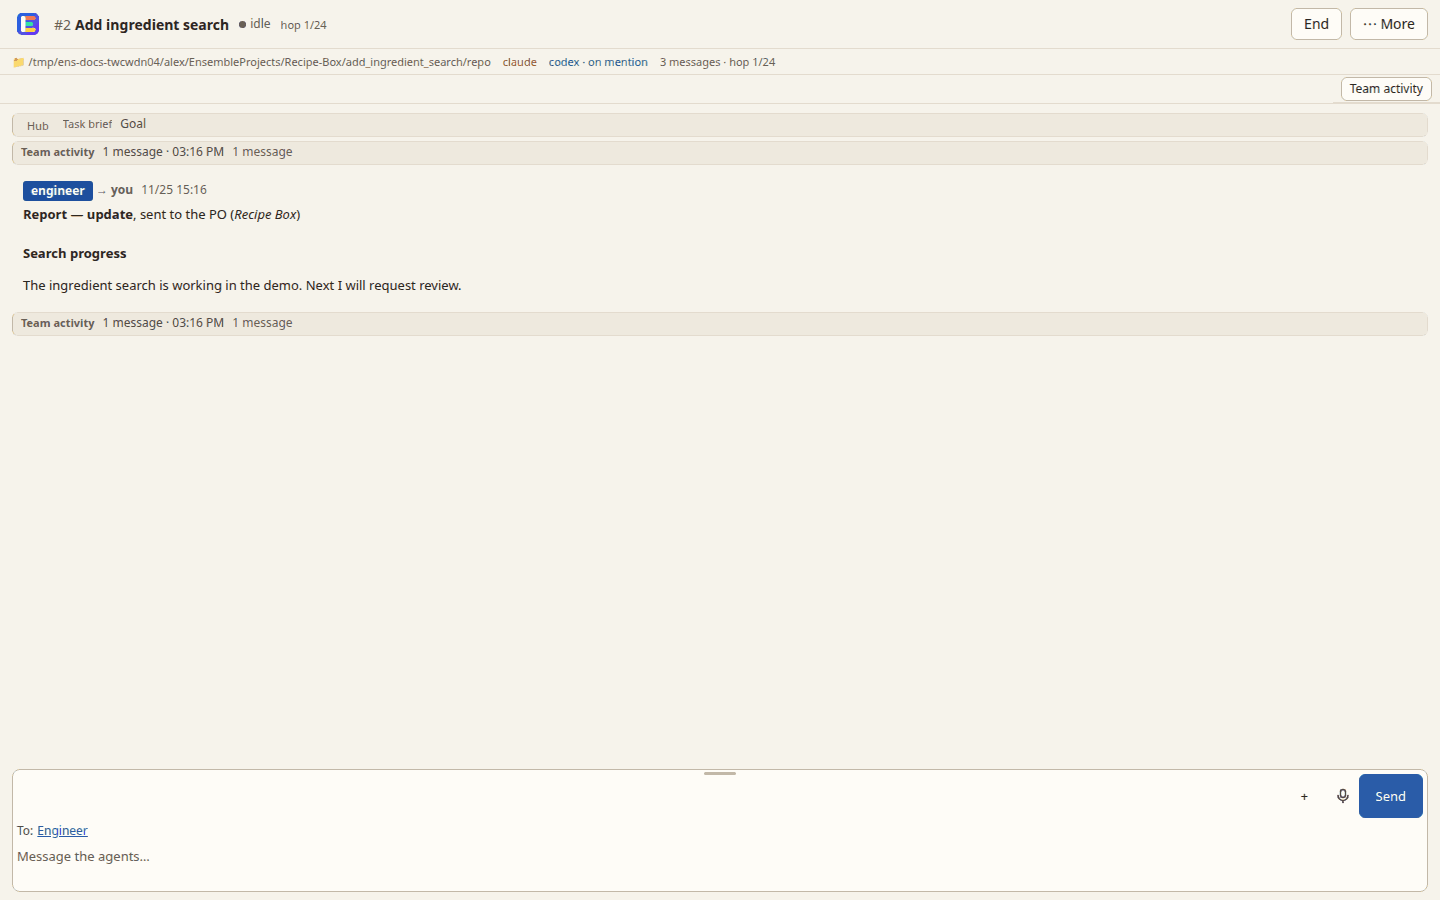
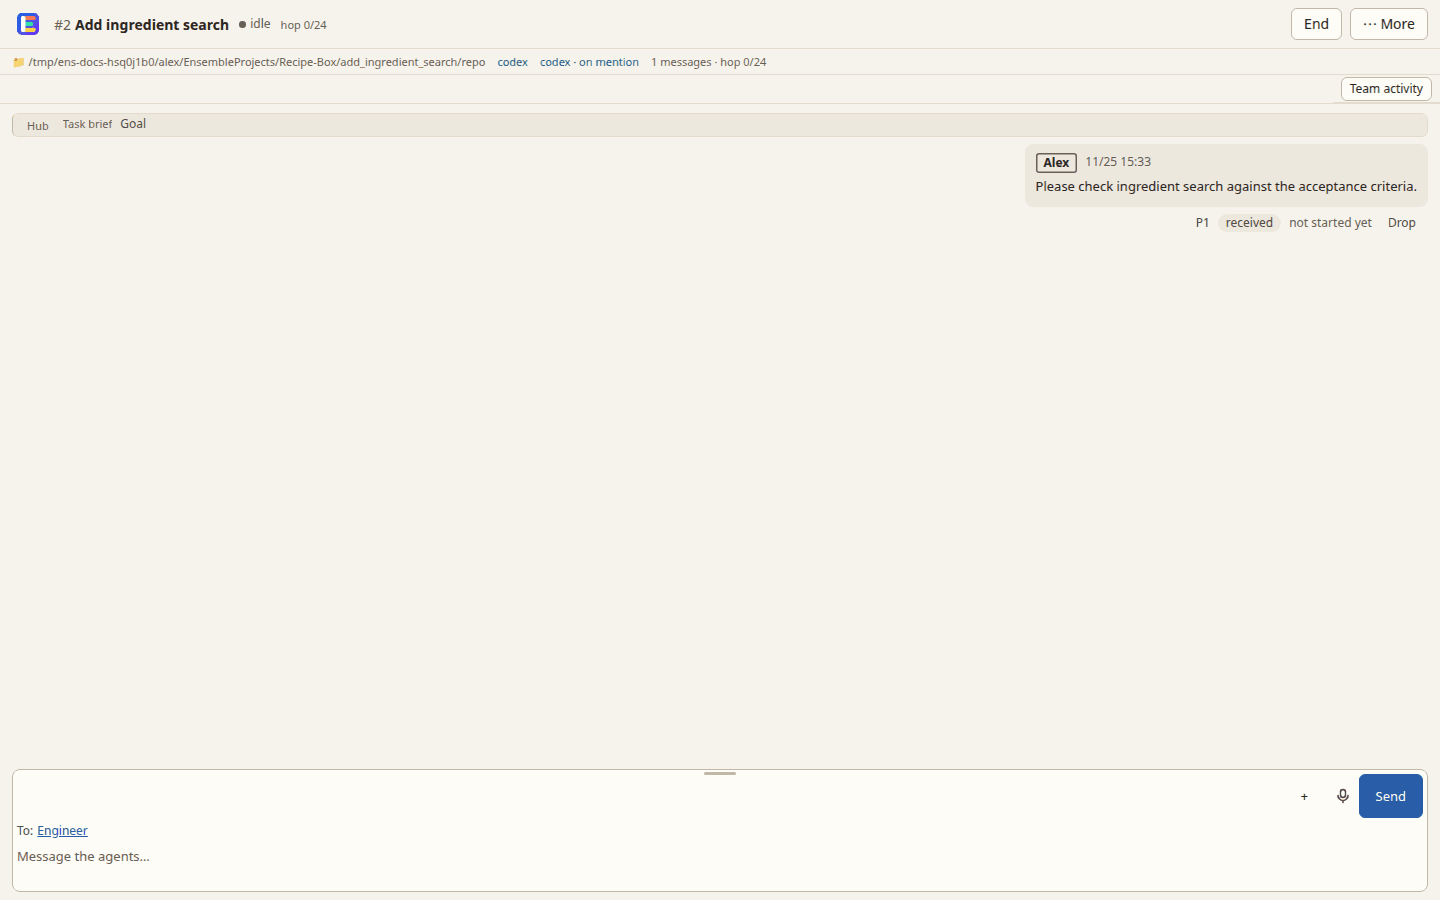
Address guide review and strengthen Paper screenshots

diff --git a/tools/doc_shots/run.py b/tools/doc_shots/run.py
@@ -7,6 +7,7 @@ from __future__ import annotations
 
 import argparse
 import json
+import os
 import shutil
 import subprocess
 import tempfile
@@ -16,14 +17,17 @@ from urllib.parse import quote
 from PIL import Image
 
 from demo_hub import Hub, ROOT
-from seed import seed
+from seed import seed, seed_usage
 
 
 def main() -> None:
     parser = argparse.ArgumentParser(description=__doc__)
     parser.add_argument("--port", type=int, default=8791)
     parser.add_argument("--chrome-port", type=int, default=9341)
-    parser.add_argument("--chrome", default=shutil.which("google-chrome") or shutil.which("chromium"))
+    mac_chrome = Path("/Applications/Google Chrome.app/Contents/MacOS/Google Chrome")
+    parser.add_argument("--chrome", default=(shutil.which("google-chrome") or shutil.which("chromium")
+                                              or shutil.which("chromium-browser")
+                                              or (str(mac_chrome) if mac_chrome.exists() else None)))
     args = parser.parse_args()
     if not args.chrome:
         parser.error("Chrome or Chromium is required (--chrome PATH)")
@@ -34,9 +38,11 @@ def main() -> None:
     # demo file paths. tempfile.mkdtemp's default /tmp meets that condition.
     hub = Hub(base, args.port)
     out = ROOT / "docs" / "images"
-    out.mkdir(parents=True, exist_ok=True)
+    out.parent.mkdir(parents=True, exist_ok=True)
+    shot_dir = Path(tempfile.mkdtemp(prefix=".images-", dir=out.parent))
     try:
         hub.prepare({"theme": "paper", "operatorNickname": "Alex"})
+        seed_usage(hub)
         hub.start()
         state = seed(hub)
         for route in ("/", f"/session?id={state['active']}",
@@ -47,15 +53,32 @@ def main() -> None:
         state_file = base / "shot-state.json"
         state_file.write_text(json.dumps(state), encoding="utf-8")
         subprocess.run(["node", str(Path(__file__).with_name("shots.mjs")), hub.url,
-                        str(state_file), str(out), args.chrome, str(args.chrome_port)], check=True)
-        for file in out.glob("*.png"):
+                        str(state_file), str(shot_dir), args.chrome, str(args.chrome_port)], check=True)
+        manifest = json.loads((shot_dir / "manifest.json").read_text(encoding="utf-8"))
+        pngs = list(shot_dir.glob("*.png"))
+        if len(manifest) != 15 or {x["name"] + ".png" for x in manifest} != {x.name for x in pngs}:
+            raise RuntimeError("the screenshot set is incomplete")
+        for file in pngs:
             im = Image.open(file)
             # Paper has few colours; a palette PNG keeps screenshots sharp.
             im.quantize(colors=128, method=Image.Quantize.FASTOCTREE).save(file, optimize=True)
-        print(f"Rebuilt {len(list(out.glob('*.png')))} Paper screenshots in {out}")
+        backup = out.parent / ".images-previous"
+        if backup.exists():
+            shutil.rmtree(backup)
+        if out.exists():
+            os.replace(out, backup)
+        try:
+            os.replace(shot_dir, out)
+        except OSError:
+            if backup.exists():
+                os.replace(backup, out)
+            raise
+        shutil.rmtree(backup, ignore_errors=True)
+        print(f"Rebuilt {len(pngs)} Paper screenshots in {out}")
     finally:
         hub.stop()
         shutil.rmtree(base, ignore_errors=True)
+        shutil.rmtree(shot_dir, ignore_errors=True)
 
 
 if __name__ == "__main__":

diff --git a/tools/doc_shots/seed.py b/tools/doc_shots/seed.py
@@ -42,7 +42,7 @@ def task(hub: Hub, pid: str, title: str, spec: str, workflow: str,
     return room
 
 
-def seed(hub: Hub) -> dict:
+def seed_usage(hub: Hub) -> None:
     now = int(time.time())
     usage = {"asOf": now, "rateLimits": {
         "five_hour": {"used_percentage": 42, "resets_at": now + 7200},
@@ -50,6 +50,9 @@ def seed(hub: Hub) -> dict:
     folder = hub.state / "usage"
     folder.mkdir(parents=True, exist_ok=True)
     (folder / "claude-rate-limits.json").write_text(json.dumps(usage), encoding="utf-8")
+
+
+def seed(hub: Hub) -> dict:
 
     p = hub.post("/api/projects/new", {"name": "Recipe Box", "kind": "code"})["project"]
     pid = p["id"]
@@ -79,7 +82,7 @@ def seed(hub: Hub) -> dict:
                                   "newThread": True, "threadName": "Vegetarian recipes"})
     transcript(hub.home, po_seat["cwd"], po_seat["sessionId"],
                "I will track the vegetarian filter in its own thread so the decisions stay together.")
-    hub.mcp(po_agent["token"], "ensemble_ask", {"questions": [{
+    ask = hub.mcp(po_agent["token"], "ensemble_ask", {"questions": [{
         "question": "Which ingredient list should the first release use?",
         "options": [{"label": "Local sample", "detail": "A small list included with the app", "recommended": True},
                     {"label": "Imported file", "detail": "Let people choose a file"}]}]})
@@ -89,6 +92,8 @@ def seed(hub: Hub) -> dict:
     active = task(hub, pid, "Add ingredient search",
                   "# Goal\nFind recipes by ingredient.\n\n# Acceptance\n- Search ignores case.\n- Tests cover a match and no match.\n",
                   "inprogress", "highest", True, True)
+    prompt = hub.post("/api/room/say", {"roomId": active["id"],
+                                             "text": "Please check ingredient search against the acceptance criteria."})
     owner = agent(hub, active["participants"][0]["sessionId"])
     hub.mcp(owner["token"], "chat_send", {"to": "all", "message":
         "## Progress\n\nThe search function is in place. I am checking the tests and preparing a commit for review."})
@@ -129,4 +134,5 @@ def seed(hub: Hub) -> dict:
         hub.post("/api/projects/new", {"name": "Field Journal", "kind": "documents"})
     except RuntimeError:
         pass
-    return {"project": pid, "po": po_id, "active": active["id"], "file": str(code / "src" / "search.py")}
+    return {"project": pid, "po": po_id, "active": active["id"], "file": str(code / "src" / "search.py"),
+            "ask": ask["messageId"], "progress": prompt["result"]["message"]["id"]}

diff --git a/tools/doc_shots/fake_agent.py b/tools/doc_shots/fake_agent.py
@@ -19,6 +19,10 @@ if "--version" in args:
     print("2.1.0 (Claude Code)" if kind == "claude" else "codex-cli 0.80.0")
     sys.exit(0)
 
+if kind == "codex" and args[-3:] == ["mcp", "list", "--json"]:
+    print("[]")  # The disposable agent has no configured external servers.
+    sys.exit(0)
+
 if kind == "codex" and args[:1] == ["app-server"]:
     week = int(time.time()) + 4 * 86400
     pool = {"limitId": "codex", "limitName": None, "normalModelSlug": None,

diff --git a/docs/remote-security.md b/docs/remote-security.md
@@ -6,10 +6,19 @@ The hub listens on the hub computer. A private tailnet lets a Mac or phone reach
 
 ![The demo dashboard, shown without an access token](images/overview.png)
 
-## How to connect remotely
+## How to connect through a tailnet address
 
 1. Install Tailscale on the hub and the device you will use. Join both to the same tailnet.
-2. Open the hub's tailnet address and port in the remote browser. If it asks for a token, copy the token from `~/.ensemble/access-token.txt` on the hub computer and paste it into the sign-in page.
-3. Keep the token private. Use the dashboard's device and notification settings for each browser or app you use.
+2. Tell the hub to bind to its Tailscale address before starting it. On Linux, run `ENSEMBLE_BIND=tailscale ./install-systemd.sh`; this updates and restarts the user service. On macOS, stop an existing hub with `./ensemble stop`, then run `ENSEMBLE_BIND=tailscale ./ensemble start`. In Windows PowerShell, stop an existing hub with `.\ensemble.ps1 stop`, set `$env:ENSEMBLE_BIND='tailscale'`, then run `.\ensemble.ps1 start`.
+3. Open `http://<hub-tailnet-name>:8765` on the remote device. If it asks for a token, copy the token from `~/.ensemble/access-token.txt` on the hub computer and paste it into the sign-in page. Keep it private.
 
-For an HTTPS address, configure Tailscale Serve to proxy to the hub's loopback port. The normal tailnet address remains available. Keep the hub itself on a private interface or behind the tailnet.
+## How to add HTTPS with Tailscale Serve
+
+HTTPS is needed for remote push notifications and browser app installation. Serve proxies to the hub's loopback address; the hub may keep its default loopback bind for this route.
+
+1. In the Tailscale admin console, enable **MagicDNS** and **HTTPS Certificates** for the tailnet.
+2. On the hub computer, run `tailscale serve status`. Pick HTTPS port 443 if it is unused, otherwise a free port such as 8443. On Windows, use an Administrator terminal for Serve.
+3. Run `tailscale serve --https=443 --bg 8765` (substitute your chosen HTTPS port). Confirm with `tailscale serve status`.
+4. Open the HTTPS address from the remote device and sign in with the token when asked. To remove this address later, use `tailscale serve --https=443 off` with the port you chose. Avoid `tailscale serve reset`, which removes every Serve address on that machine.
+
+Use Serve's HTTP or HTTPS proxy mode, not its raw TCP modes, so the hub can distinguish proxied requests and require the token.

diff --git a/docs/notifications.md b/docs/notifications.md
@@ -8,6 +8,7 @@ The hub can notify your devices about questions and work that needs you. You can
 
 ## How to set them up
 
-1. Open the avatar menu, then **Settings** → **Notifications**. Choose which events notify you and register this device when the browser offers permission.
-2. On an iPhone, open Ensemble in Safari, use **Share** → **Add to Home Screen**, and allow notifications when prompted. The device must be able to reach the hub, usually over your tailnet.
-3. For a desktop app window, open **Settings** → **Ensemble as an app** and choose **Install app** when your browser offers it. Safari on a Mac uses **File** → **Add to Dock**.
+1. Open the avatar menu, then **Settings** → **Notifications**. Turn on **Notifications on this device** and allow the browser's permission request. Use **Send a test** to check it; the device list shows where notifications are on.
+2. On a remote device, use the hub's HTTPS address from [Tailscale Serve](remote-security.md#how-to-add-https-with-tailscale-serve). A plain HTTP tailnet address cannot register for push.
+3. On an iPhone or iPad, open that HTTPS address in Safari, use **Share** → **Add to Home Screen**, open Ensemble from the new icon, then turn notifications on there. A Safari tab cannot receive Web Push for this site.
+4. For a desktop app window, open **Settings** → **Ensemble as an app** and choose **Install app** when your browser offers it. Safari on a Mac uses **File** → **Add to Dock**.

diff --git a/docs/troubleshooting.md b/docs/troubleshooting.md
@@ -8,7 +8,7 @@ Most startup problems are a missing agent login, a stopped hub service or a brow
 
 ## How to check common problems
 
-1. **The dashboard will not open:** check the hub service with `./ensemble status` (Linux/macOS) or `.\ensemble.ps1 status` (Windows). Read `~/.ensemble/logs/ensemble.log` on Linux, `~/Library/Logs/ensemble.log` on macOS or `%USERPROFILE%\.ensemble\logs\ensemble.log` on Windows.
+1. **The dashboard will not open:** check a Linux service with `./install-systemd.sh status` (or `systemctl --user status ensemble`), a macOS hub with `./ensemble status`, or a Windows hub with `.\ensemble.ps1 status`. Read `~/.ensemble/logs/ensemble.log` on Linux, `~/Library/Logs/ensemble.log` on macOS or `%USERPROFILE%\.ensemble\logs\ensemble.log` on Windows.
 2. **An agent will not start:** run `claude --version` or `codex --version` on the hub machine, sign in with that CLI, then retry the task.
 3. **A remote device asks for a token:** get it from `~/.ensemble/access-token.txt` on the hub machine. Check that the device is on the same tailnet.
 4. **A card looks idle after a restart:** open its session and read the live indicator. Workflow columns describe the chosen stage; they are separate from whether a process is running.

diff --git a/docs/maintenance.md b/docs/maintenance.md
@@ -8,8 +8,8 @@ The hub can restart its own process safely, update an installed build and back u
 
 ## How to maintain the hub
 
-1. Open the avatar menu for **Update now** when an update is offered. Read the confirmation before applying it; the hub restarts after updating.
-2. For a plain restart, use the hub's restart control or the platform service command (`./ensemble restart` on Linux/macOS, `.\ensemble.ps1 restart` on Windows).
+1. When an update is available, open the avatar menu and choose **What's new · Update available**. Use **Update now** there and read the confirmation; the hub restarts after updating.
+2. For a plain restart of a Linux systemd installation, run `systemctl --user restart ensemble`. On macOS use `./ensemble restart`; on Windows use `.\ensemble.ps1 restart`.
 3. Open **Settings** → **Backup of your projects** to choose a backup destination and check its status. Use **Back up now** for an immediate run.
 
 Keep the project repository's own Git remote and your backup destination under your control. A backup is a separate copy of project files, not a substitute for reviewing agent changes.

diff --git a/docs/inbox.md b/docs/inbox.md
@@ -8,8 +8,8 @@ The Inbox gathers work that needs your attention: unanswered questions, task dec
 
 ## How to answer or close a card
 
-1. Open **Inbox** from the project's sidebar or panel. Select the item to see its question in context.
-2. Pick an option or **Yes**/**No**. Add a comment if the choice needs context, then use **Reply**.
-3. If the question is no longer relevant, choose **Close**. A closed card no longer waits for your answer; the conversation remains available.
+1. Open **Inbox** from the project's sidebar or panel. Select **Reply** on the card to open the question in its chat with the message box aimed at it.
+2. In the chat, pick an option or **Yes**/**No**. Add a comment if the choice needs context, then send the answer.
+3. If the question is no longer relevant, choose **Close**. **Close this and earlier** clears that card and older cards in the same group. **Done with this** marks an answer-to-check item handled. The conversation remains available.
 
 ![Inbox controls on a phone](images/inbox-phone.png)

diff --git a/docs/task-life.md b/docs/task-life.md
@@ -4,7 +4,7 @@
 
 A task begins with a written spec. Its owner does the work in a task workspace; an optional reviewer checks a commit when the owner asks. The owner sends a completion, blocker or question report to the project PO. In a code project, the PO merges the branch and the card reaches Done when the merge is seen. A documents project has no merge, so its card can be moved to Done directly.
 
-![A task session with its progress and report](images/task-session.png)
+![A task session with a linked request and point status](images/task-session.png)
 
 ## How to follow a task
 

diff --git a/README.md b/README.md
@@ -2,7 +2,7 @@
 
 Ensemble is a local dashboard for projects worked on by coding agents. A project has a product owner (PO) chat and a board of tasks; Claude Code and Codex can own tasks, review changes, report back and carry work across long sessions. The hub runs on your machine and serves a browser page you can open from another device on your tailnet.
 
-![Paper-theme view of a fictional Recipe Box project with its PO chat and Ask cards](docs/images/overview.png)
+![Paper-theme view of a fictional Recipe Box project](docs/images/overview.png)
 
 ## What you can do
 

diff --git a/docs/sessions.md b/docs/sessions.md
@@ -12,6 +12,6 @@ Each running task has a session page with its chat, agent state and a live termi
 2. Read the messages to see the owner's progress and reviewer feedback. Open the terminal panel to see the agent's live output.
 3. If the session has stopped, type in its message box and send to resume it with your instruction. Check the task state before sending a second message.
 
-![The task view on a phone](images/board-phone.png)
+![The task view on a phone](images/task-session-phone.png)
 
 ![The demo agent's terminal in its task session](images/task-terminal.png)

diff --git a/docs/settings.md b/docs/settings.md
@@ -2,7 +2,7 @@
 
 ## What it is
 
-Settings holds appearance, notifications, agents, editor, backups and other preferences. The appearance choices include Light, Dark, Dim, Paper, Contrast, Fjord, IntelliJ Dark and System.
+Settings holds appearance, notifications, agents, editor, backups and other preferences. The appearance choices include Light, Dark, Dim, Paper, High contrast, Fjord, IntelliJ Dark and Match system.
 
 ![Appearance settings with Paper selected](images/settings-themes.png)
 
